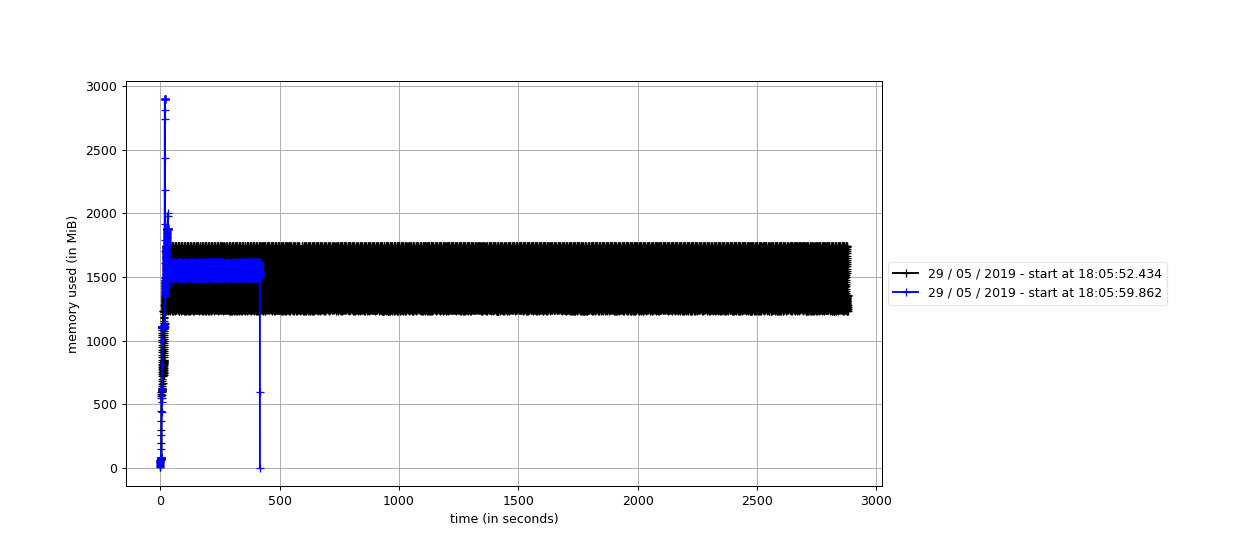
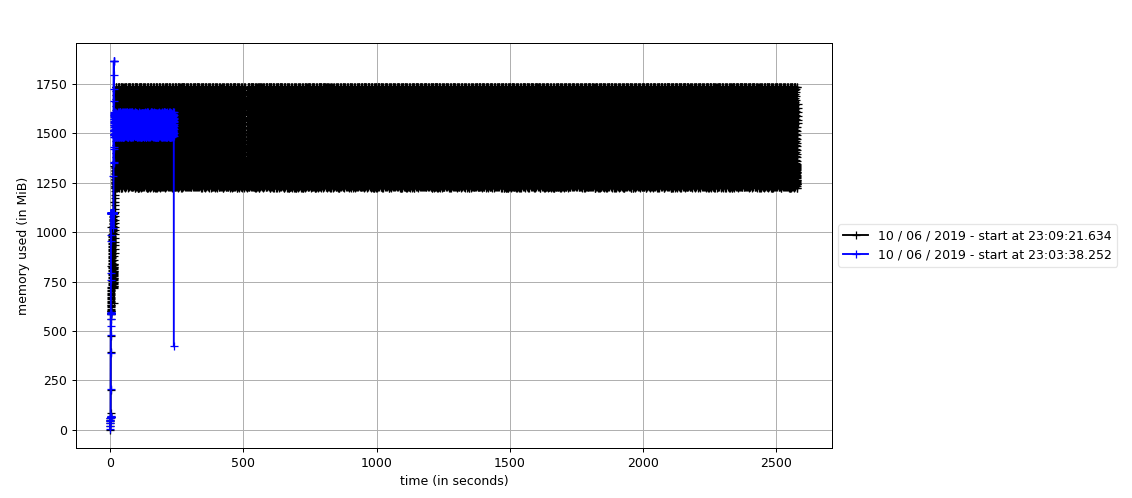
docs: update multilabel benchmark for 1.2.2

Changed region(s): [[0.0, 0.1205, 0.9894, 0.994]]

diff --git a/benchmarks/README.md b/benchmarks/README.md
@@ -7,8 +7,8 @@ I compared the time and memory performance of both libraries on a 512x512x512 vo
 # Multi-Label Comparison
 
 <p style="font-style: italics;" align="center">
-<img height=384 src="https://raw.githubusercontent.com/seung-lab/connected-components-3d/master/benchmarks/cc3d_vs_scipy_multilabel.png" alt="Extracting components using SciPy vs cc3d on a 512x512x512 densely labeled connectomics segmentation. (black) 20% of SciPy 1.2.1 (blue) 100% of cc3d 1.1.1" /><br>
-Fig. 1: Extracting components using SciPy vs cc3d on a 512x512x512 densely labeled connectomics segmentation. (black) 20% of SciPy 1.2.1 (blue) 100% of cc3d 1.1.1
+<img height=384 src="https://raw.githubusercontent.com/seung-lab/connected-components-3d/master/benchmarks/cc3d_vs_scipy_multilabel.png" alt="Extracting components using SciPy vs cc3d on a 512x512x512 densely labeled connectomics segmentation. (black) 20% of SciPy 1.3.0 (blue) 100% of cc3d 1.2.2" /><br>
+Fig. 1: Extracting components using SciPy vs cc3d on a 512x512x512 densely labeled connectomics segmentation. (black) 20% of SciPy 1.3.0 (blue) 100% of cc3d 1.2.2
 </p>
 
 ```python
@@ -21,8 +21,8 @@ import fastremap
 def cc3d_test(labels):
   labels, remap = fastremap.renumber(labels)
   res = cc3d.connected_components(labels)
-  uniques = np.unique(res)[1:]
-  for segid in tqdm(uniques):
+  N = np.max(res)
+  for segid in tqdm(range(1, N+1)):
     extracted = (res == segid)
 
 def ndimage_test(labels):
@@ -40,15 +40,15 @@ def ndimage_test(labels):
       extracted = (res == ccid)
 ```
 
-In this test, `cc3d_test` was run to completion in 385 seconds after loading the image and processing it. `ndimage_test` was arrested manually after 500 iterations (20%) at 2,866 seconds as `tqdm` projected over three hours of total running time. SciPy's algorithm wins on memory pressure at about 1.7 GB peak usage versus cc3d using 2.8 to 2.9 GB. SciPy performs poorly here because it must be run thousands of times after masking to expose individual labels since it only supports binary data. SciPy's average iteration per label took about 5.7 sec. It then must extract the individual components from the results of connected components, but this is fast. By contrast, since `cc3d` has native multi-label support, it needs to only be run once, with the bulk of time spent querying the resulting image for components.  
+In this test, `cc3d_test` was run to completion in 225 seconds after loading the image and processing it. `ndimage_test` was arrested manually after 496 iterations (20%) at 2,745 seconds as `tqdm` projected over three hours of total running time. SciPy's algorithm wins on memory pressure at about 1.7 GB peak usage versus cc3d using about 1.8 to 1.9 GB. SciPy performs poorly here because it must be run thousands of times after masking to expose individual labels since it only supports binary data. SciPy's average iteration per label took about 5.1 sec. It then must extract the individual components from the results of connected components, but this is fast. By contrast, since `cc3d` has native multi-label support, it needs to only be run once, with the bulk of time spent querying the resulting image for components.  
 
 `cc3d` has a disadvantage compared with SciPy in that input images must only contain labels smaller than the maximum size of the image or that of a uint32 (whichever is smaller). That is why it is treated with `fastremap.renumber` prior to running. If it is known that the values of the labels are small compared with the image size, this additional step is not needed. The large difference in memory usage is due to the implementation of `cc3d`'s union-find data structure and the run based equivalences in SciPy. If we were to use an `std::unordered_map` in `cc3d`, it would slow down the performance of the initial run, but would reduce memory by about half, and prevent the need for using renumber. However, SciPy would still do better on memory due to its representations.
 
 # 10x Head to Head Comparison  
 
 <p style="font-style: italics;" align="center">
-<img height=384 src="https://github.com/seung-lab/connected-components-3d/blob/master/benchmarks/cc3d_vs_scipy_single_label_10x.png" alt="Fig. 2: SciPy vs cc3d run ten times on a 512x512x512 connectomics segmentation masked to only contain one label. (blue) SciPy 1.2.1 (black) cc3d 1.2.2" /><br>
-Fig. 2: SciPy vs cc3d run ten times on a 512x512x512 connectomics segmentation masked to only contain one label. (blue) SciPy 1.2.1 (black) cc3d 1.2.2
+<img height=384 src="https://github.com/seung-lab/connected-components-3d/blob/master/benchmarks/cc3d_vs_scipy_single_label_10x.png" alt="Fig. 2: SciPy vs cc3d run ten times on a 512x512x512 connectomics segmentation masked to only contain one label. (black) SciPy 1.3.0 (blue) cc3d 1.2.2" /><br>
+Fig. 2: SciPy vs cc3d run ten times on a 512x512x512 connectomics segmentation masked to only contain one label. (blue) SciPy 1.3.0 (black) cc3d 1.2.2
 </p> 
 
 ```python
